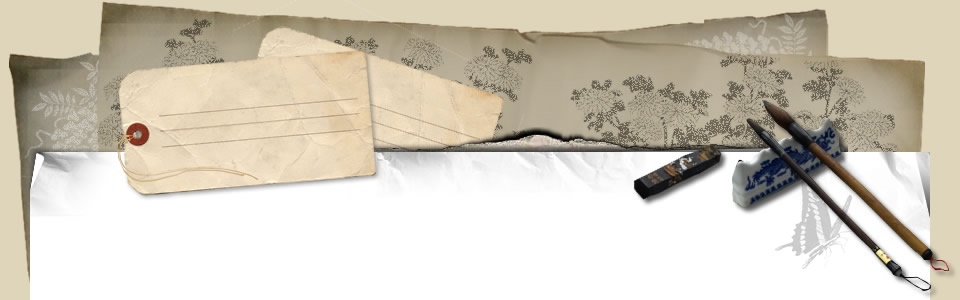
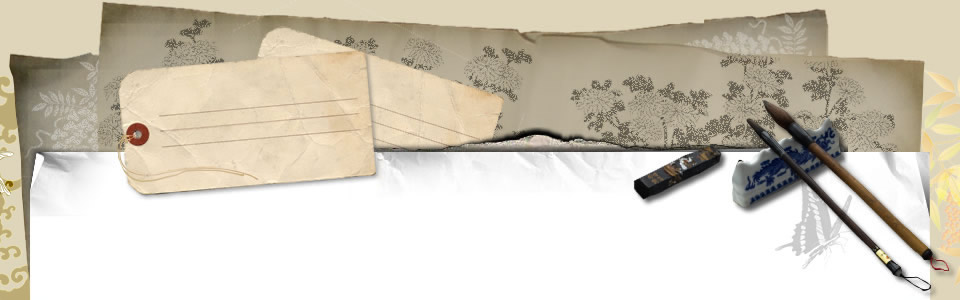
update plugins

diff --git a/wp-content/themes/japan-style/style.css b/wp-content/themes/japan-style/style.css
@@ -1,7 +1,7 @@
 /*
 Theme Name: japan-style
 Description: japan-style Wordpress Theme by<a href="http://blog.gooddesignweb.com/">Good Design Web</a>
-Version: 1.1
+Version: 1.2
 Author: Good Design Web
 Author URI: http://blog.gooddesignweb.com/
 Tags: fixed width, two columns, right sidebar, valid XHTML, valid CSS
@@ -19,10 +19,15 @@ img { border: none; }
 /* Body
 -------------------------------------------------------------------*/
 body { 
-	font: 12px/18px Verdana, Helvetica, Arial, Geneva, sans-serif; 
+        margin: 0 auto;
+        font: 12px/18px Verdana, Helvetica, Arial, Geneva, sans-serif; 
 	color: #333; 
-	background: #DED5BA; 
+	background: #DED5BA url(images/bg.jpg) no-repeat center top; 
 }
+
+*:first-child+html body {background: #DED5BA url(images/bg.jpg) no-repeat center -8px;}
+
+* html body {background: #DED5BA url(images/bg.jpg) no-repeat center -8px;}
 
 h1, h2, h3, h4, h5, h6 { font-family: "Trebuchet MS", Helvetica, Arial, Geneva, Sans-Serif; color: #414d4c; }
 h1 { font-size: 22px; line-height: 26px; margin-bottom: 10px; }
